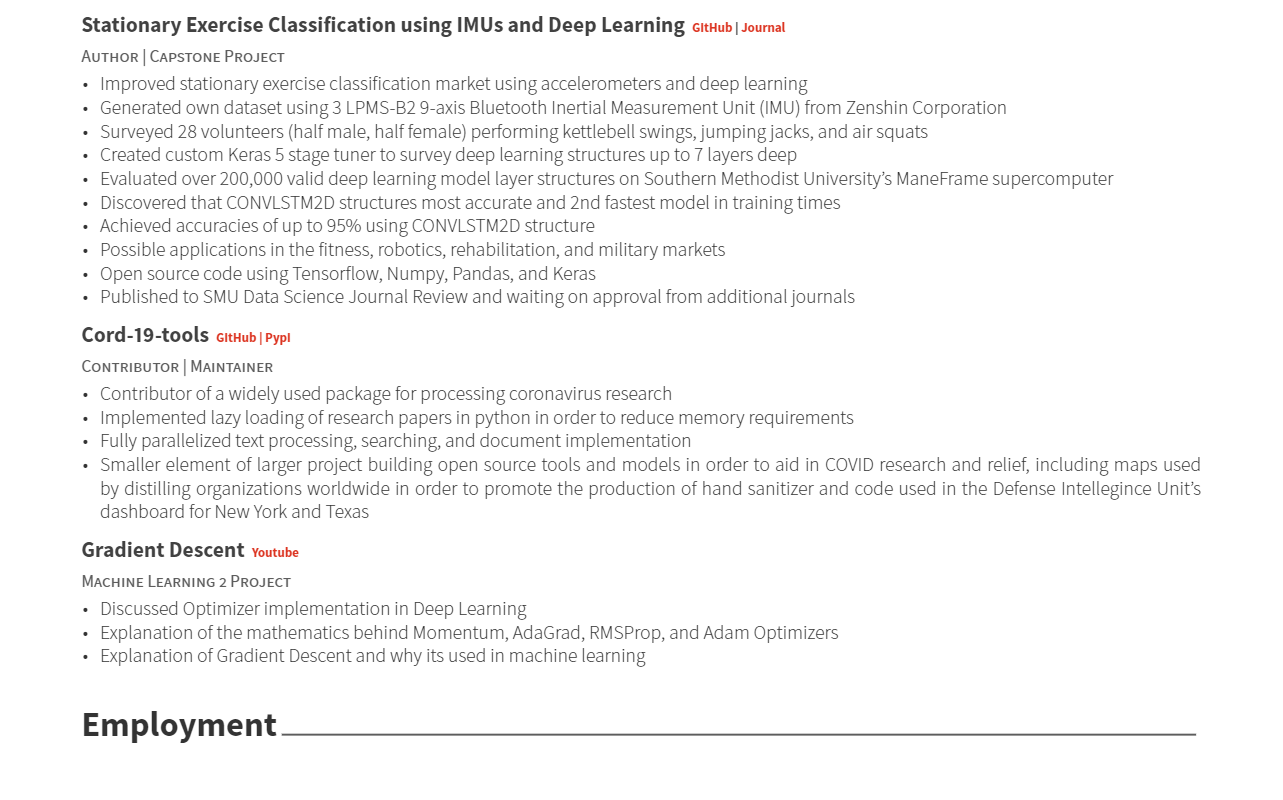
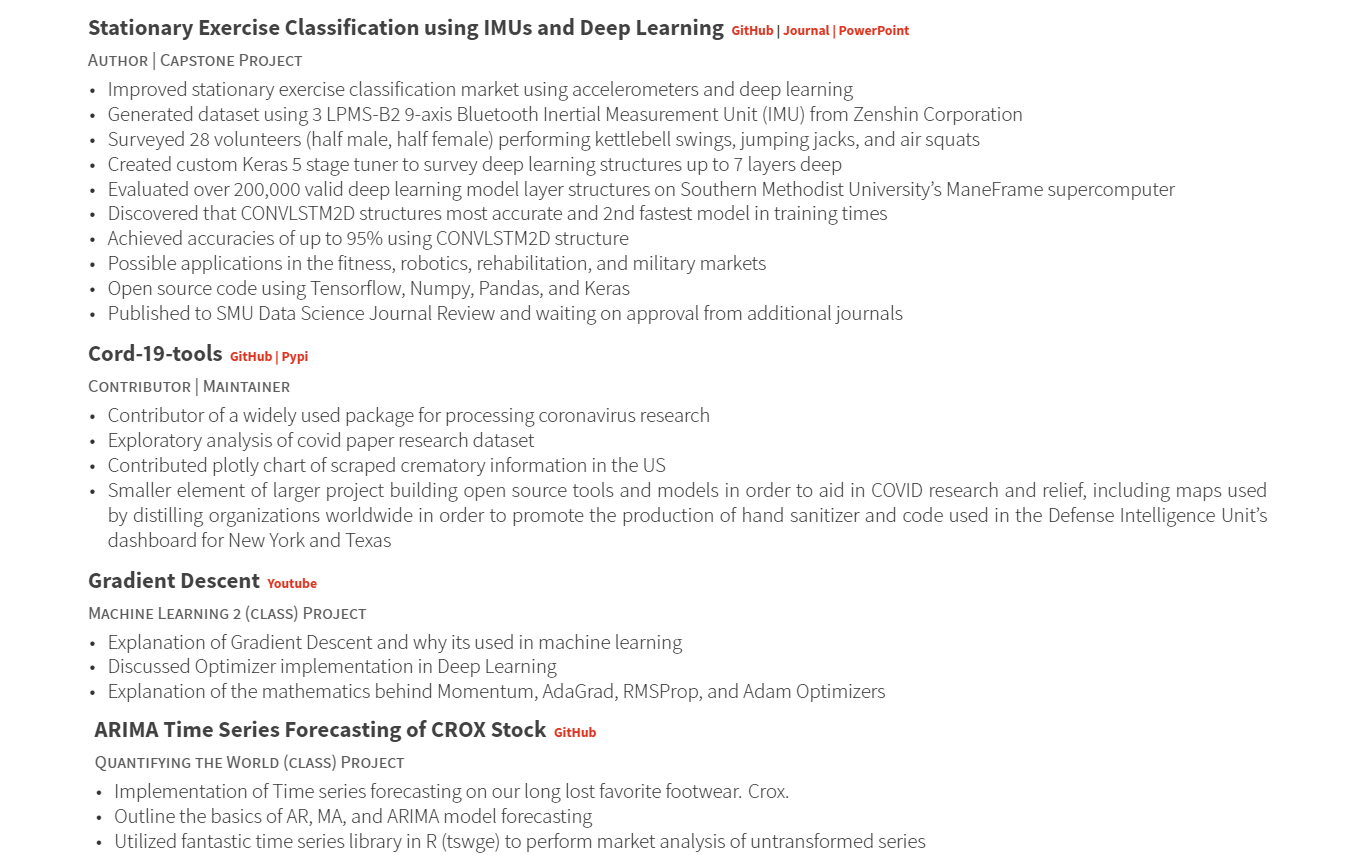
Updating Resume Images and file

diff --git a/resume.html b/resume.html
@@ -311,6 +311,9 @@ $(document).ready(function () {
 <center>
 <img src="images/Resume3.png" width="1000px">
 </center>
+<center>
+<img src="images/Resume4.png" width="1000px">
+</center>
 <p><a href="./resume/AndyHeroyResume2020.pdf">Andy Heroy Resume Download Link</a></p>
 
 
